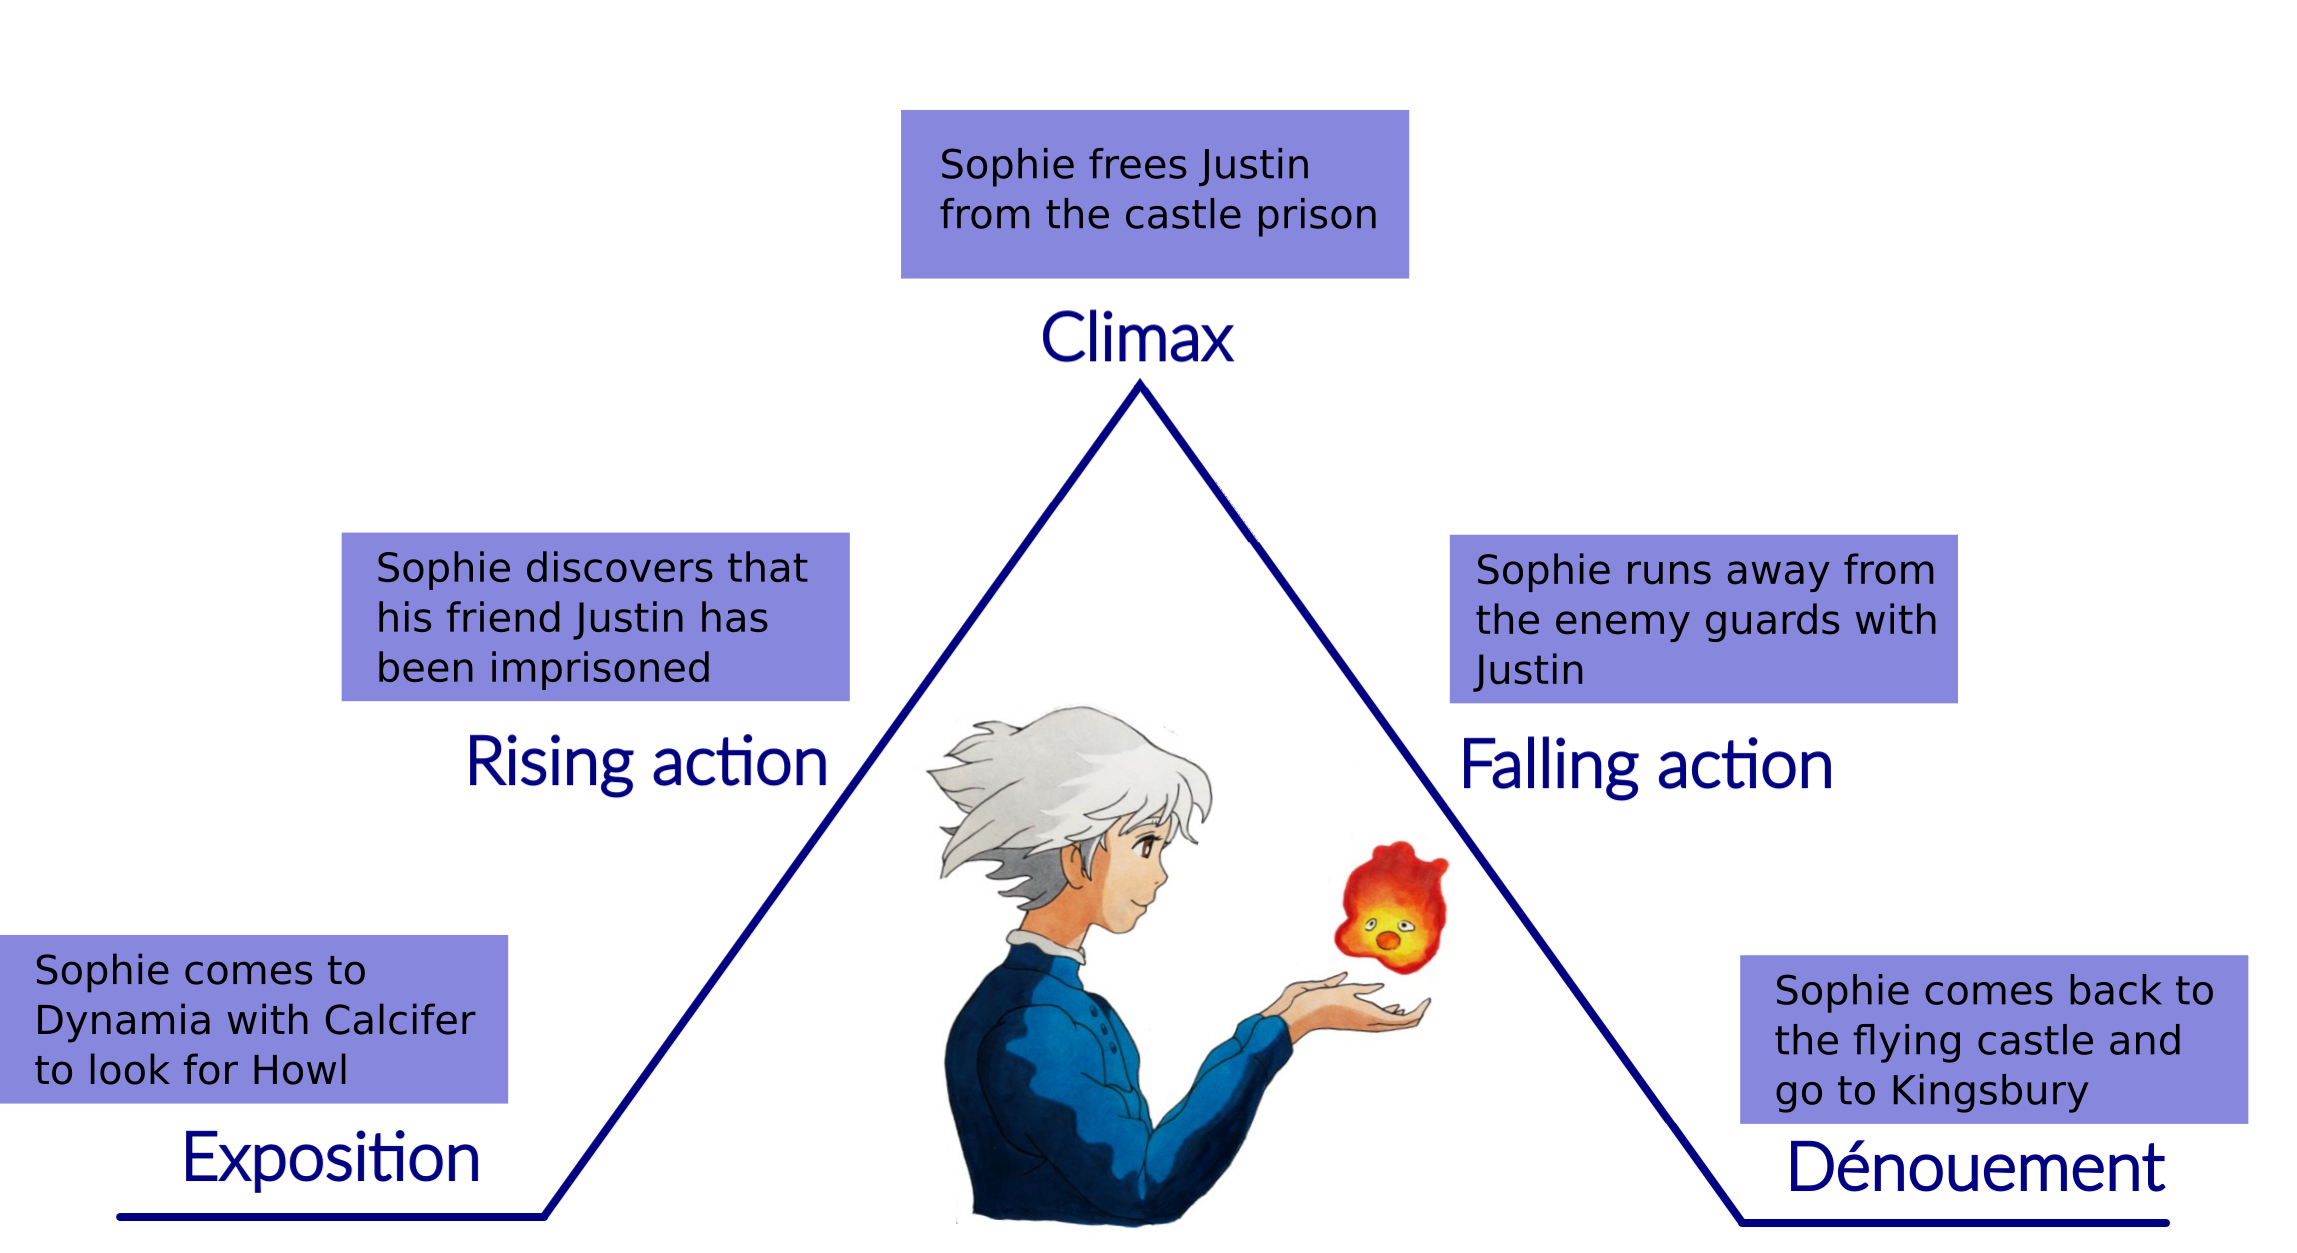
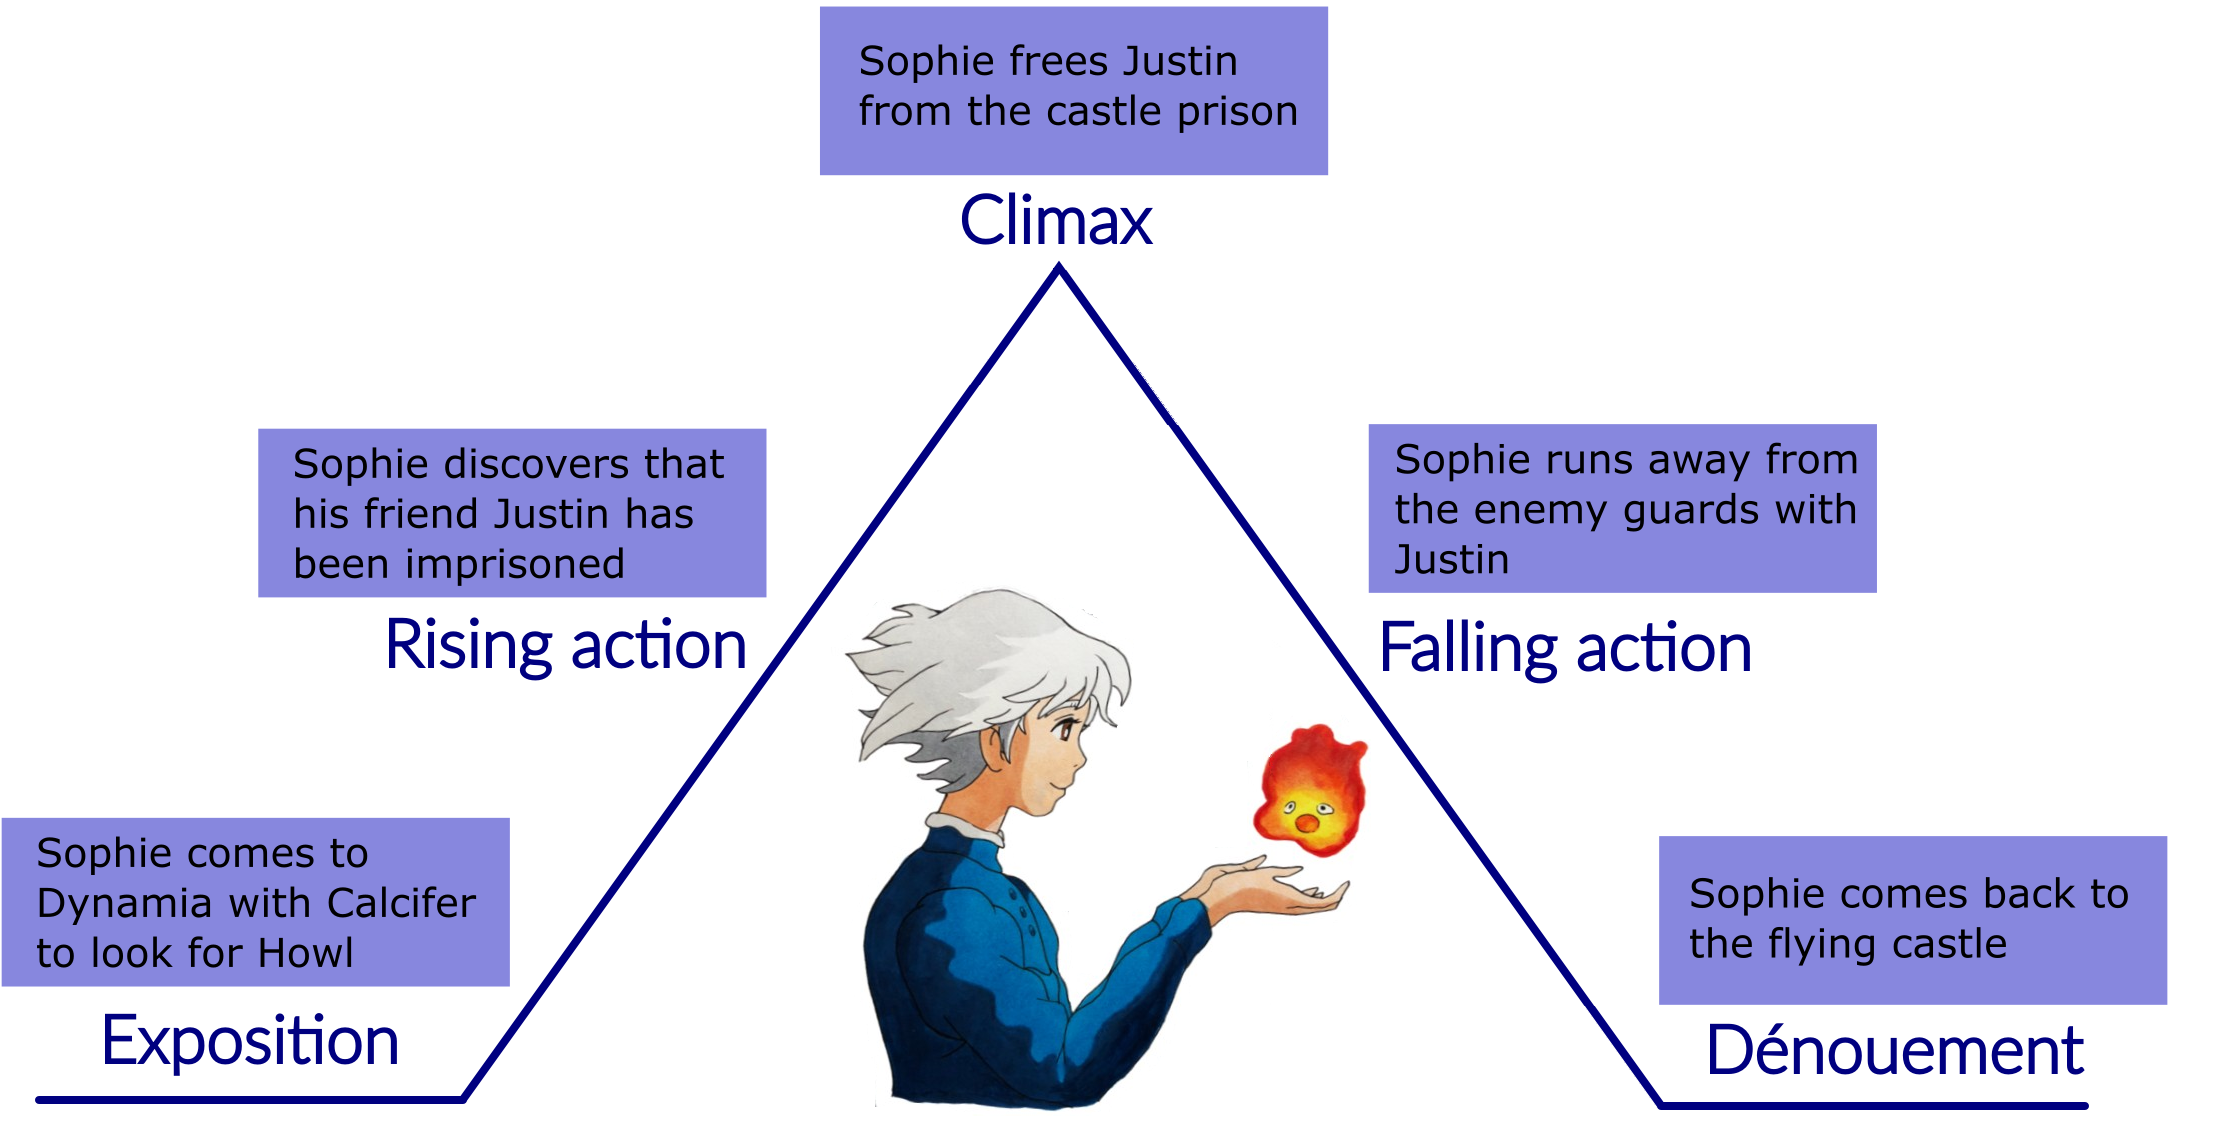
Aggiunta reference image per Dynamia.

diff --git a/Documents/LevelDesignDocument/Level/story.tex b/Documents/LevelDesignDocument/Level/story.tex
@@ -1,5 +1,13 @@
 \section{Story}
 
+\begin{center}
+  \begin{figure}[H]
+    \centering
+    \includegraphics[width=\textwidth]{../../References/Images/Dynamia/venice-restaurants-by-canal}
+    \caption{Reference image for Dynamia}
+  \end{figure}
+\end{center}
+
 When Sophie and Calcifer arrive in Dynamia it is late afternoon. They find themselves in a dead end in the suburbs of Dynamia.\\
 
 \textbf{Calcifer}: What’s this smell!?\\

diff --git a/Documents/LevelDesignDocument/Level/freytagPyramid.tex b/Documents/LevelDesignDocument/Level/freytagPyramid.tex
@@ -2,6 +2,7 @@
 \begin{center}
   \begin{figure}[H]
     \centering
-    \includegraphics[width=12cm]{Images/Diagrams/freytagPyramid}
+    \includegraphics[width=\textwidth]{Images/Diagrams/freytagPyramid}
+    \caption{Freytag's Pyramid of the level}
   \end{figure}
 \end{center}
